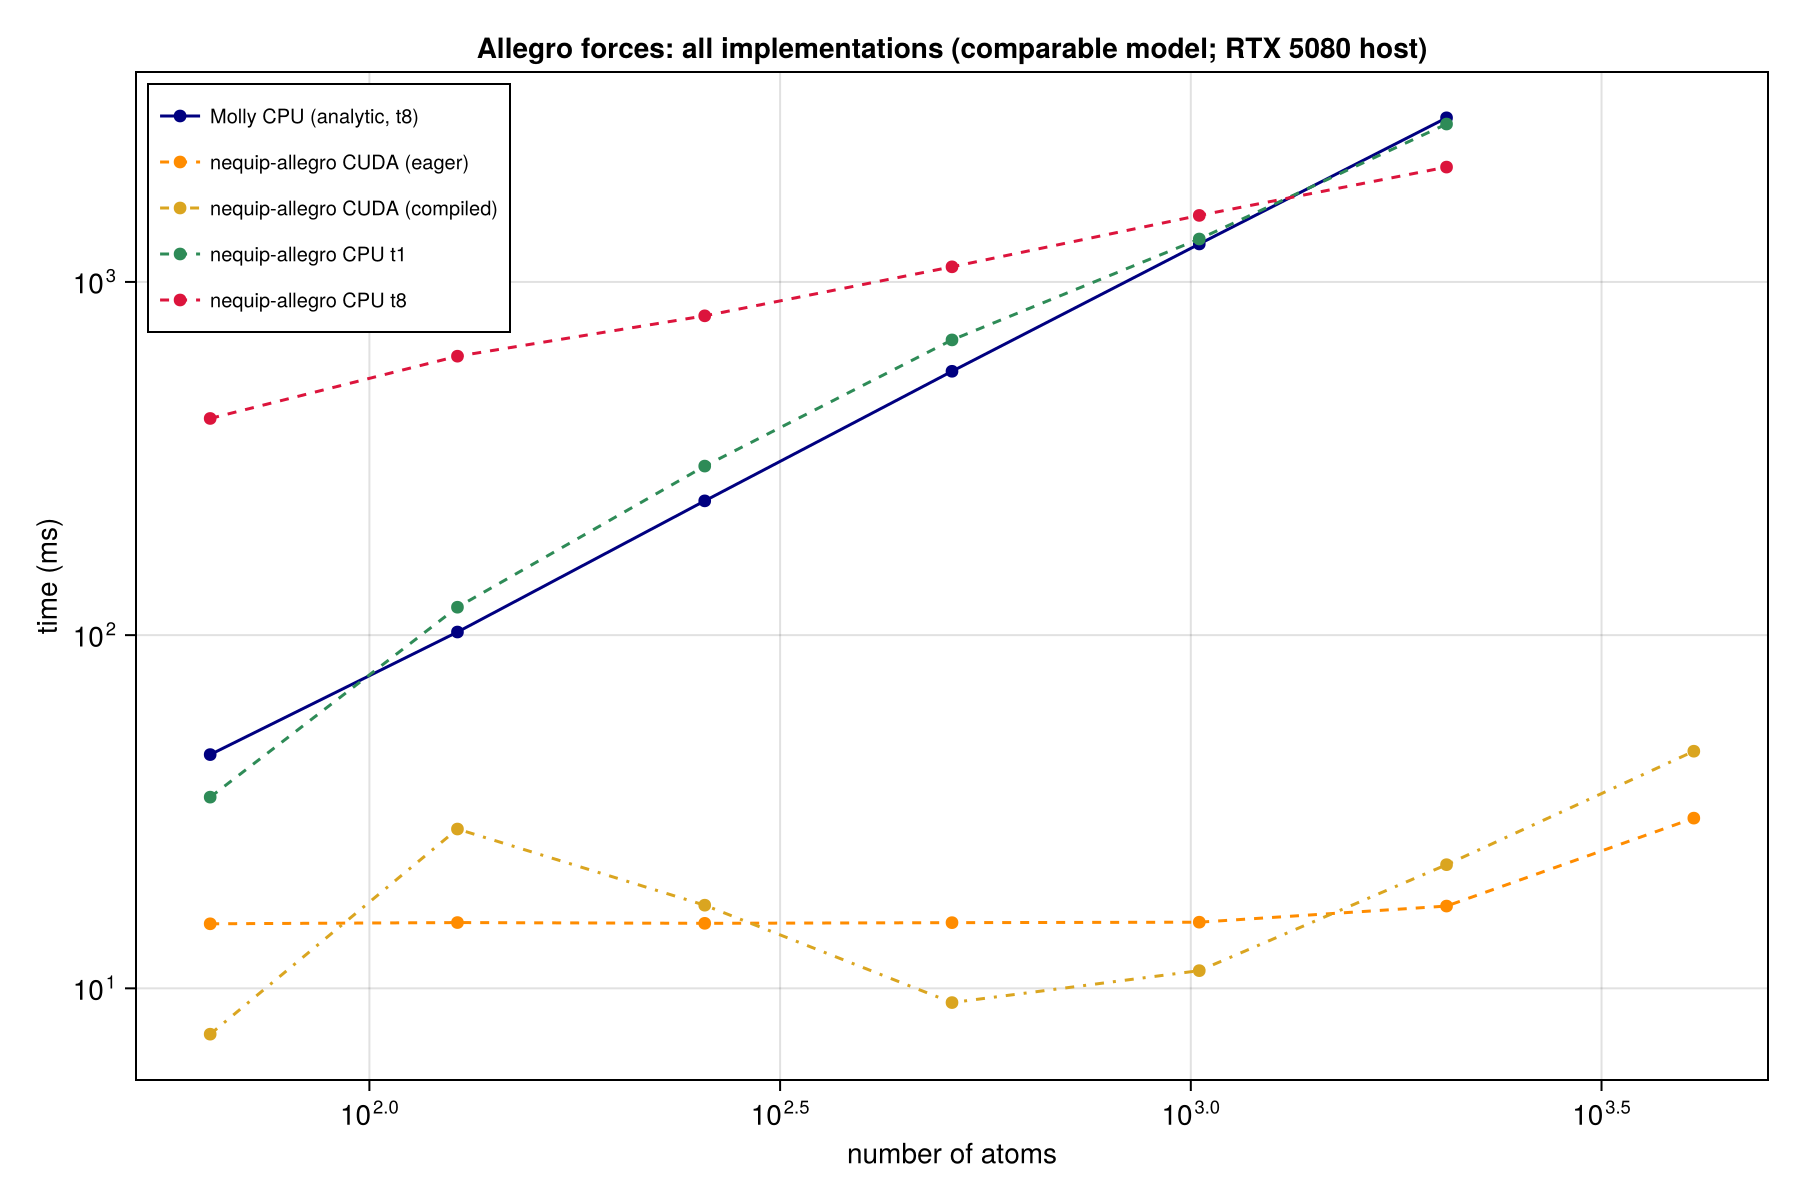
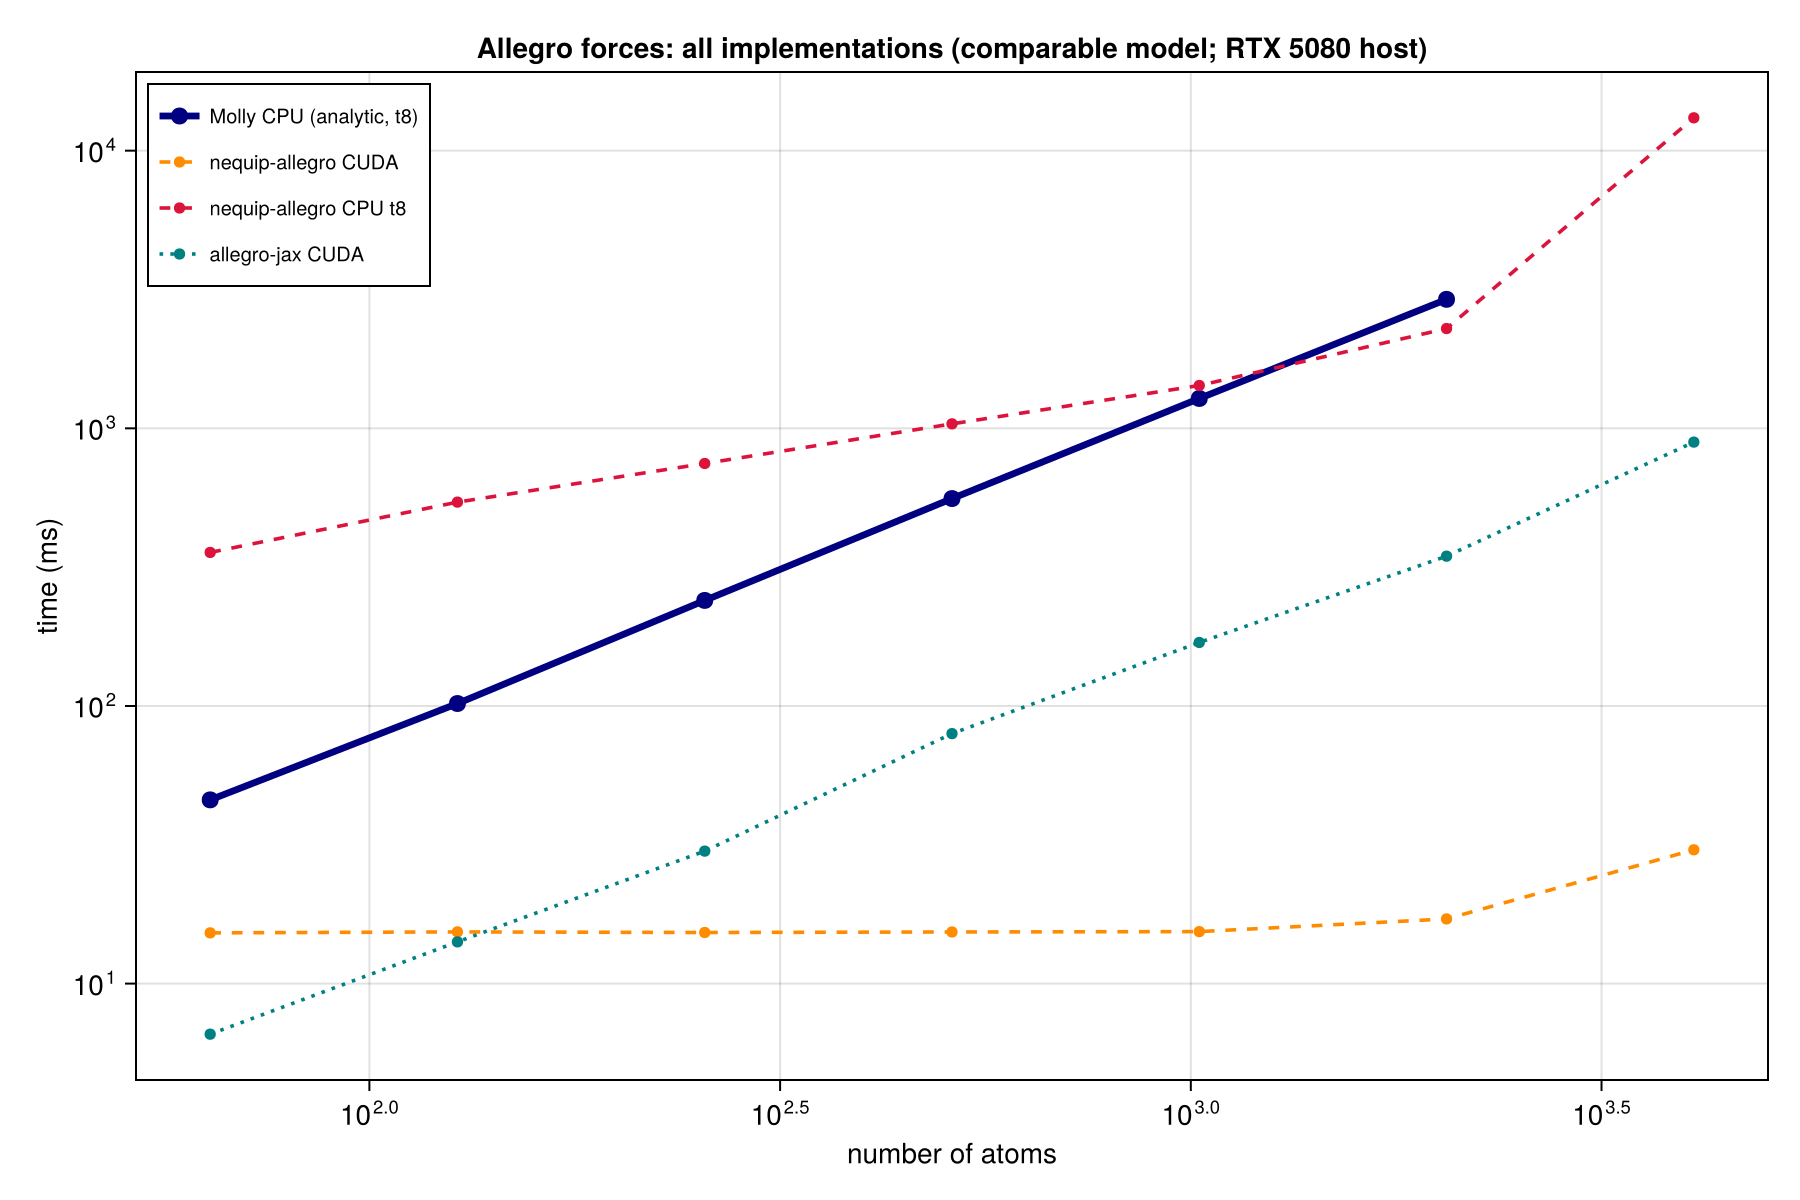
Allegro benchmarks: add allegro-jax, single nequip CUDA line, clearer Molly
- Add the JAX implementation (allegro-jax / e3nn-jax) as a third series via
  benchmark/allegro_jax_bench.py. It uses dense all-pairs, so it scales O(N^2)
  (877 ms vs Molly 7 ms at 4096 atoms).
- Collapse nequip CUDA to a single line (drop the eager/compiled split; note in
  text that torch.compile reaches ~2.5-5 ms, still slower than Molly).
- Draw Molly (solid) series thicker/larger so Molly CUDA and Metal are clearly
  visible against the reference implementations.

Molly's native CUDA is fastest across the board; Metal beats nequip CUDA at
small N; allegro-jax and PyTorch CPU are far slower at scale.

diff --git a/benchmark/allegro_jax_bench.py b/benchmark/allegro_jax_bench.py
@@ -1,0 +1,128 @@
+#!/usr/bin/env python
+"""Time allegro-jax (https://github.com/mariogeiger/allegro-jax) energy + forces across system
+sizes, as a second independent Allegro implementation for the head-to-head in
+benchmark/allegro_benchmarks.md.
+
+The model is configured to be COMPARABLE in size to Molly's native reference and the
+nequip-allegro run in allegro_torch_bench.py (l_max=2, 2 layers, 4 tensor channels,
+16 hidden scalars, 8 bessels, r_c=4.0) — not identical ops, so read it as implementation
+throughput at a similar model scale.
+
+Systems: the same jittered cubic lattice (2.5 A spacing, seed 1), H/C species, all-pairs
+edges within r_max. Energies/forces in float64 to match the other columns. Writes
+results/allegro_jax_<device>.json keyed like the torch bench.
+
+  ~/allegrojax/bin/python allegro_jax_bench.py           # CUDA if visible, else CPU
+  JAX_PLATFORMS=cpu ~/allegrojax/bin/python allegro_jax_bench.py
+"""
+import json
+import os
+import time
+
+import numpy as np
+
+import jax
+
+jax.config.update("jax_enable_x64", True)
+
+import e3nn_jax as e3nn  # noqa: E402
+import flax.linen as nn  # noqa: E402
+import jax.numpy as jnp  # noqa: E402
+from allegro_jax import Allegro  # noqa: E402
+
+RC = 4.0
+SIZES = [int(x) for x in
+         os.environ.get("ALLEGRO_SIZES", "64,128,256,512,1024,2048,4096").split(",")]
+DEVICE = jax.devices()[0].platform  # "gpu" or "cpu"
+KEY = "cuda" if DEVICE == "gpu" else "cpu"
+
+
+class Model(nn.Module):
+    @nn.compact
+    def __call__(self, positions, species, senders, receivers):
+        node_attrs = jax.nn.one_hot(species, 2)
+        vectors = e3nn.IrrepsArray("1o", positions[receivers] - positions[senders])
+        out = Allegro(
+            avg_num_neighbors=10.0,
+            max_ell=2,
+            irreps=4 * e3nn.Irreps("0e + 1o + 2e"),
+            mlp_n_hidden=16,
+            mlp_n_layers=2,
+            n_radial_basis=8,
+            radial_cutoff=RC,
+            output_irreps=e3nn.Irreps("0e"),
+            num_layers=2,
+        )(node_attrs, vectors, senders, receivers)
+        return jnp.sum(out.array)
+
+
+def make_system(n, a=2.5, jitter=0.2, seed=1):
+    rng = np.random.default_rng(seed)
+    side = int(np.ceil(np.cbrt(n)))
+    pts = []
+    for x in range(side):
+        for y in range(side):
+            for z in range(side):
+                if len(pts) == n:
+                    break
+                pts.append([a * x, a * y, a * z])
+    pts = np.array(pts[:n]) + jitter * (2 * rng.random((n, 3)) - 1)
+    types = rng.integers(0, 2, n)
+    return pts, types
+
+
+def edge_index(pos):
+    d = np.linalg.norm(pos[:, None, :] - pos[None, :, :], axis=-1)
+    i, j = np.where((d < RC) & (d > 1e-8))
+    return i, j
+
+
+def timeit(f, reps=5, samples=8):
+    f().block_until_ready()
+    best = np.inf
+    for _ in range(reps):
+        t0 = time.perf_counter()
+        for _ in range(samples):
+            out = f()
+        out.block_until_ready()
+        best = min(best, (time.perf_counter() - t0) / samples)
+    return best * 1e3  # ms
+
+
+def main():
+    model = Model()
+    res = {KEY: {}}
+    printed_params = False
+    for n in SIZES:
+        pos_np, types_np = make_system(n)
+        i, j = edge_index(pos_np)
+        pos = jnp.asarray(pos_np)
+        species = jnp.asarray(types_np)
+        senders = jnp.asarray(i)
+        receivers = jnp.asarray(j)
+
+        w = model.init(jax.random.PRNGKey(0), pos, species, senders, receivers)
+        if not printed_params:
+            nparams = sum(x.size for x in jax.tree_util.tree_leaves(w))
+            print(f"allegro-jax bench | device={KEY} | params={nparams}")
+            printed_params = True
+
+        energy = jax.jit(lambda p: model.apply(w, p, species, senders, receivers))
+        forces = jax.jit(jax.grad(lambda p: model.apply(w, p, species, senders, receivers)))
+
+        te = timeit(lambda: energy(pos))
+        tf = timeit(lambda: forces(pos))
+        res[KEY][str(n)] = {"energy_ms": te, "forces_ms": tf, "edges": int(len(i))}
+        print(f"  n={n:5d} edges={len(i):6d} energy={te:8.3f} ms  forces={tf:8.3f} ms")
+
+    outdir = os.path.join(os.path.dirname(os.path.abspath(__file__)), "results")
+    os.makedirs(outdir, exist_ok=True)
+    path = os.path.join(outdir, f"allegro_jax_{KEY}.json")
+    prev = json.load(open(path)) if os.path.exists(path) else {}
+    prev.update(res)
+    json.dump(prev, open(path, "w"), indent=1)
+    print("wrote", path)
+
+
+if __name__ == "__main__":
+    main()

diff --git a/benchmark/allegro_benchmarks.md b/benchmark/allegro_benchmarks.md
@@ -133,53 +133,54 @@ work on-device was the main win.
 
 ---
 
-## Head-to-head: Molly native vs nequip-allegro (PyTorch)
+## Head-to-head: Molly native vs other Allegro implementations
 
-The reference implementation of Allegro is the PyTorch [`nequip-allegro`](https://github.com/mir-group/allegro)
-package. Both run a **comparable-size** model (`l_max=2`, 2 layers, ~4 tensor / 16 scalar channels,
-~11k params) so this measures implementation throughput. Two caveats: the two are **not identical
-ops** (the native op-by-op bit-match to nequip-allegro is a follow-up — read this as "a native-Julia
-Allegro of similar size vs the PyTorch reference", not same-weights), and CPU/CUDA are the same
-**RTX 5080 host** while Metal is the **Apple M3** (cross-machine). Reproduce with
-`benchmark/allegro_torch_bench.py` (nequip) alongside `benchmark/allegro_cuda_compare.jl` and
+The existing Allegro implementations are the PyTorch [`nequip-allegro`](https://github.com/mir-group/allegro)
+(the reference) and the JAX [`allegro-jax`](https://github.com/mariogeiger/allegro-jax) (on e3nn-jax).
+All three run a **comparable-size** model (`l_max=2`, 2 layers, ~4 tensor / 16 scalar channels,
+~11k params) so this measures implementation throughput. Two caveats: they are **not identical ops**
+(the native op-by-op bit-match to nequip-allegro is a follow-up — read this as "a native-Julia
+Allegro of similar size vs the others", not same-weights), and CPU/CUDA are the same **RTX 5080
+host** while Metal is the **Apple M3** (cross-machine). Reproduce with `benchmark/allegro_torch_bench.py`
+(nequip) and `benchmark/allegro_jax_bench.py` (JAX) alongside `benchmark/allegro_cuda_compare.jl` and
 `benchmark/allegro.jl` (Molly), on the same machine.
 
-**Energy, time in ms** (CUDA + CPU-t8 on the RTX 5080 host; Molly Metal on the M3). `nequip CUDA`
-is shown both eager and `torch.compile`d (its fast deployment path):
+**Energy, time in ms** (CUDA + CPU-t8 on the RTX 5080 host; Molly Metal on the M3). Three
+implementations: Molly native, `nequip-allegro` (PyTorch), and `allegro-jax` (e3nn-jax):
 
-| atoms | Molly CUDA | nequip CUDA (eager) | nequip CUDA (compiled) | Molly Metal | Molly CPU-t8 | nequip CPU-t8 |
+| atoms | Molly CUDA | nequip CUDA | allegro-jax CUDA | Molly Metal | Molly CPU-t8 | nequip CPU-t8 |
 | :---: | :---: | :---: | :---: | :---: | :---: | :---: |
-| 64   | 1.33 | 5.65  | 2.79  | 1.99 | 3.4   | 188 |
-| 256  | 1.47 | 5.59  | 4.66  | 2.14 | 16.9  | 344 |
-| 512  | 1.64 | 5.68  | 4.91  | 2.66 | 35.7  | 435 |
-| 1024 | 2.13 | 5.70  | 2.48  | 3.92 | 106.3 | 618 |
-| 2048 | 3.62 | 7.85  | 5.11  | 7.11 | 206.1 | 849 |
-| 4096 | 7.32 | 13.42 | 10.73 | —    | 457.0 | —   |
+| 64   | 1.33 | 5.65  | 6.7   | 1.99 | 3.4   | 188 |
+| 256  | 1.47 | 5.59  | 30.2  | 2.14 | 16.9  | 344 |
+| 512  | 1.64 | 5.68  | 80.4  | 2.66 | 35.7  | 435 |
+| 1024 | 2.13 | 5.70  | 167.5 | 3.92 | 106.3 | 618 |
+| 2048 | 3.62 | 7.85  | 344.8 | 7.11 | 206.1 | 849 |
+| 4096 | 7.32 | 13.42 | 877.0 | —    | 457.0 | —   |
 
-(The compiled column is noisy — `torch.compile` with dynamic shapes recompiles per size — but the
-ordering is stable.)
+(`torch.compile` brings nequip CUDA to ~2.5–5 ms — still slower than Molly; omitted from the plot
+for clarity. `allegro-jax` uses dense all-pairs, so it scales O(N²) and is far slower at scale.)
 
 ![Allegro energy: all implementations](images/allegro_benchmark_energy.png)
 
 **Forces, time in ms** (Molly analytic vs nequip autograd; CPU on the RTX 5080 host):
 
-| atoms | Molly CPU | nequip CPU-t1 | nequip CPU-t8 | nequip CUDA (eager) | nequip CUDA (compiled) |
-| :---: | :---: | :---: | :---: | :---: | :---: |
-| 64   | 45.9   | 34.8 | 411  | 15.2 | 7.4  |
-| 256  | 240.0  | 301  | 802  | 15.3 | 17.2 |
-| 1024 | 1280.7 | 1323 | 1543 | 15.4 | 11.2 |
-| 2048 | 2914.6 | 2799 | 2114 | 17.1 | 22.4 |
+| atoms | Molly CPU | nequip CUDA | allegro-jax CUDA | nequip CPU-t8 |
+| :---: | :---: | :---: | :---: | :---: |
+| 64   | 45.9   | 15.2 | 6.6   | 411  |
+| 256  | 240.0  | 15.3 | 30.0  | 802  |
+| 1024 | 1280.7 | 15.4 | 169.3 | 1543 |
+| 2048 | 2914.6 | 17.1 | 346.3 | 2114 |
 
 ![Allegro forces: all implementations](images/allegro_benchmark_force.png)
 
 Reading it:
 
 - **Energy: Molly's native kernels win clearly.** Molly's CUDA energy is **1.8×–4.2× faster** than
-  eager nequip-allegro (which is launch-bound at ~5.6 ms flat), and still **~1.5–2× faster than
-  `torch.compile`d nequip-allegro**, the fast deployment path. It stays sub-10 ms to 4096 atoms. On
-  CPU, PyTorch's threading is pathological at these sizes (188 ms at 64 atoms on 8 threads); Molly's
-  threaded CPU energy is 10–50× faster. Molly Metal (Apple M3) also beats eager and compiled nequip
-  CUDA at small N.
+  nequip-allegro (launch-bound at ~5.6 ms flat; ~2.5–5 ms even with `torch.compile`) and stays
+  sub-10 ms to 4096 atoms. `allegro-jax` uses dense all-pairs, so it scales **O(N²)** and is far
+  slower at scale (877 ms vs Molly's 7 ms at 4096). On CPU, PyTorch's threading is pathological at
+  these sizes (188 ms at 64 atoms on 8 threads); Molly's threaded CPU energy is 10–50× faster. Molly
+  Metal (Apple M3) also beats nequip CUDA at small N.
 - **Metal is a Molly-only capability.** nequip-allegro requires `float64` (its per-type energy
   shift casts to global float64), and Apple MPS is float32-only — so nequip-allegro **has no Apple
   GPU path at all**, the same situation TorchANI has. Molly's native Metal energy runs where the
